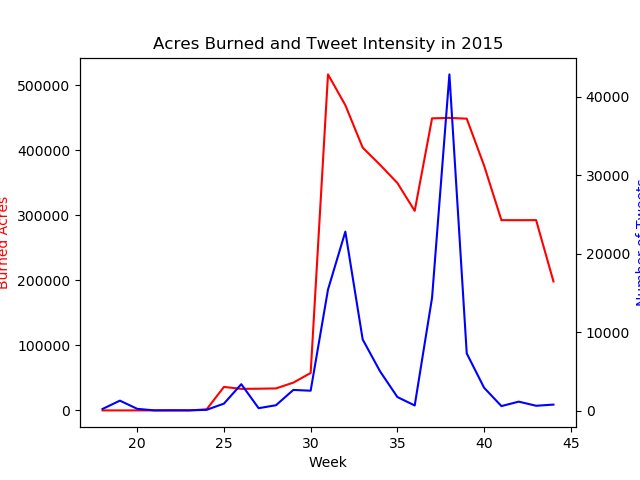
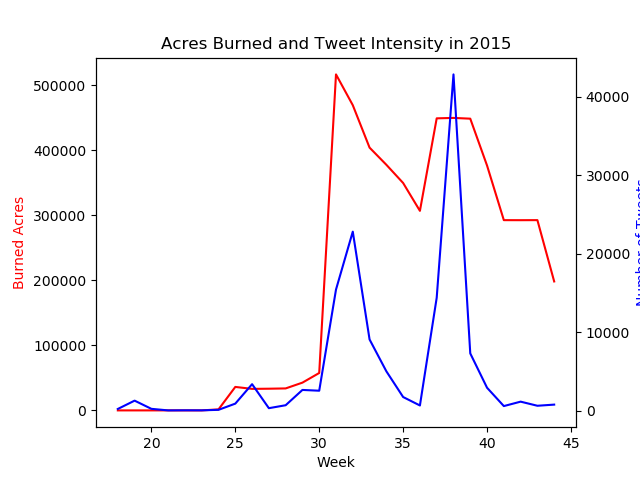
better line chart module

diff --git a/models/visualization/line_chart_func.py b/models/visualization/line_chart_func.py
@@ -1,0 +1,124 @@
+import pandas as pd
+import matplotlib.pyplot as plt
+import glob
+
+
+
+def line_chart(year, fire_season = True):
+    '''
+    Creates a line chart of the tweet and wildfire intensity.
+
+    Input:
+        year (int): the year
+        fire_season (bool): indicating whether only the fire season is relevant
+    
+    Ouptput:
+        line chart (plt): the plot
+    '''
+    assert 2010 <= year <= 2020
+    #assert fire_season is bool
+
+    plot_data = get_plot_data(year, fire_season)
+    
+    fig, ax1 = plt.subplots()
+    ax1.plot('week', 'acres', data = plot_data, color = 'red')
+    ax2 = ax1.twinx()
+    ax2.plot('week', 'nb_tweets', data = plot_data, color = 'blue')
+    plt.title(f'Acres Burned and Tweet Intensity in {year}')
+    ax1.set_xlabel('Week')
+    ax1.set_ylabel('Burned Acres')
+    ax2.set_ylabel('Number of Tweets')
+    ax1.yaxis.label.set_color('red')
+    ax2.yaxis.label.set_color('blue')
+    plt.subplots_adjust(left = 0.15)
+    plt.savefig('test.png')
+
+    return plot_data
+
+
+def get_plot_data(year, fire_season):
+    '''
+    Gets the required data for the plot in the correct format.
+
+    The formatting is computationally intensive and is only required
+    once per year. Therefore, if it has not yet been done for a year, it saves
+    the rightly-formatted dataframe. Otherwise, it simply loads the previously
+    created dataframe that is in the right format.
+
+    Input:
+        year (int): the year
+        fire_season (bool): indicating whether only the fire season is relevant
+    
+    Ouptput:
+        data (pd.DataFrame): the relevant data  
+    '''
+    long_filenames = glob.glob('../../data/chart_data/*'.format('csv'))
+    filenames = [filename.split('/')[-1] for filename in long_filenames]
+    if f'{year}_plot_data.csv' in filenames:
+        data = pd.read_csv(f'../../data/chart_data/{year}_plot_data.csv', index_col = 'Unnamed: 0')
+    else:
+        wildfire_data = get_wildfire_data()
+        twitter_data = get_twitter_data(year)
+        relevant_wildfire_data = wildfire_data[wildfire_data['year'] == year].reset_index(drop = True)                 ### filter on state as well?
+        relevant_wildfire_data = relevant_wildfire_data.loc[:, ['alarm_date', 'containment_date', 'gis_acres']]
+        week_dict = {'week': [week for week in range(1, 52 + 1)], 'acres': [0]*52, 'nb_tweets': [0]*52}
+        data = pd.DataFrame(week_dict)
+        for idx, row in enumerate(relevant_wildfire_data.itertuples()):
+            start_week, end_week, acres = row[1].week, row[2].week, row[3]
+            for week in range(start_week, end_week):
+                data.loc[week - 1, 'acres'] += acres         ### gis_acres, add acres to every week burned
+        for row in twitter_data.itertuples():
+            week = row[1].week
+            if 1 <= week <= 52:
+                data.loc[week - 1, 'nb_tweets'] += 1
+        data.to_csv(path_or_buf = f'../../data/chart_data/{year}_plot_data.csv')
+
+    if fire_season:
+        relevant_weeks = [w for w in range(18, 45)]
+    else:
+        relevant_weeks = [w for w in range(1, 53)]
+
+    data = data[data['week'].isin(relevant_weeks)]
+    return data
+
+
+def get_wildfire_data():
+    '''
+    Retrieves the wildfire data and puts it into the right format.
+
+    Input:
+        None
+    
+    Output:
+        wildfire_data (pd.DataFrame): the relevant wildfire data
+    '''
+    wildfire_data = pd.read_csv('../../data/Cal_Fires.csv', usecols = ['YEAR_', 'STATE', 'ALARM_DATE', 'CONT_DATE', 'GIS_ACRES'])
+    wildfire_data.rename(columns = {
+        'YEAR_': 'year',
+        'STATE': 'state',
+        'ALARM_DATE': 'alarm_date',
+        'CONT_DATE': 'containment_date',
+        'GIS_ACRES': 'gis_acres',
+        },inplace = True)
+    wildfire_data.dropna(axis = 0, how = 'any', subset = ['year', 'state', 'alarm_date', 'containment_date', 'gis_acres'], inplace = True)
+    wildfire_data['alarm_date'] = pd.to_datetime(wildfire_data['alarm_date'], yearfirst = True, format = '%w', infer_datetime_format=True)
+    wildfire_data['containment_date'] = pd.to_datetime(wildfire_data['containment_date'], yearfirst = True, format = '%w', infer_datetime_format=True)
+    return wildfire_data
+
+
+def get_twitter_data(year):
+    '''
+    Retrieves the tweet data of the correct year and puts it into the right
+    format.
+
+    Input:
+        year (bool): the year
+    
+    Output:
+        twitter_data (pd.DataFrame): the relevant twitter data
+    '''
+    twitter_filenames = glob.glob(f'../../data/{year}*'.format('csv'))
+    twitter_data = pd.concat([pd.read_csv(file, usecols = ['Date']) for file in twitter_filenames])
+    twitter_data.rename(columns = {'Date': 'date'}, inplace = True)
+    twitter_data['date'] = pd.to_datetime(twitter_data['date'], yearfirst = True, format = '%w', infer_datetime_format=True)
+    return twitter_data

diff --git a/models/visualization/line_chart.py b/models/visualization/line_chart.py
@@ -1,5 +1,4 @@
 import pandas as pd
-import seaborn as sns
 import matplotlib.pyplot as plt
 import glob
 
